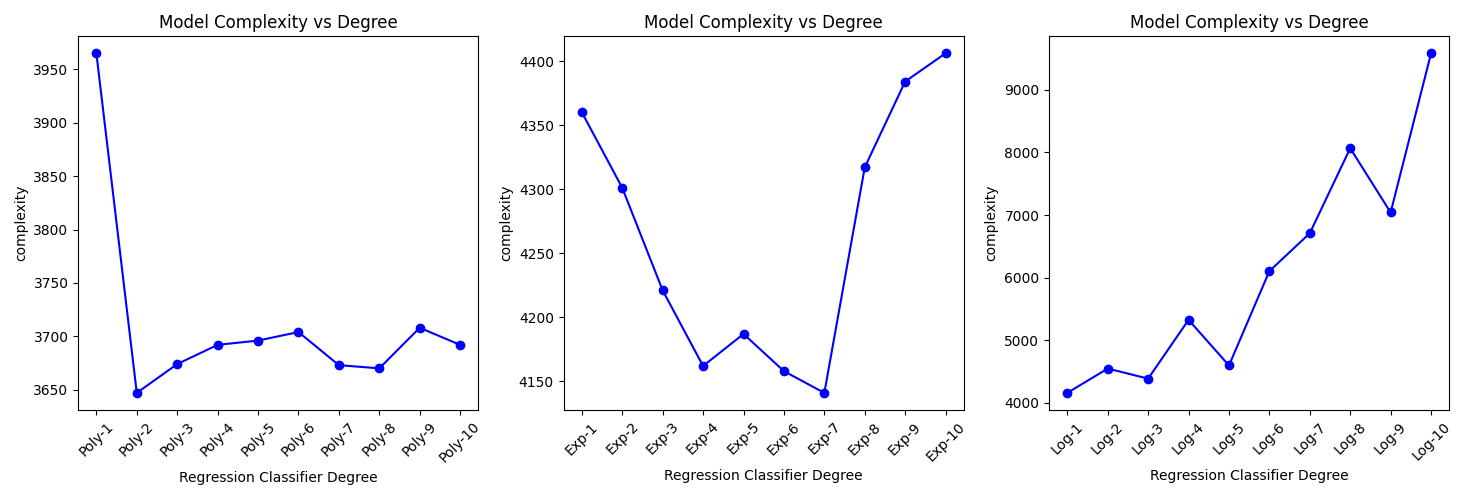
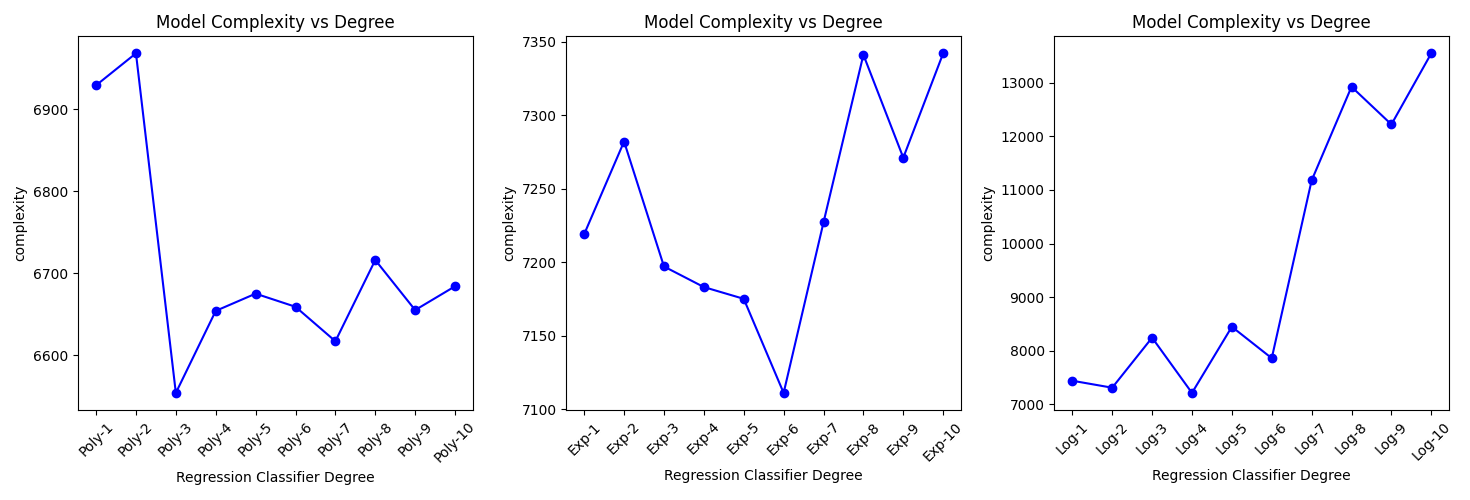
[DEV_MODEL]: Update order of datasets

diff --git a/model_tuning.py b/model_tuning.py
@@ -73,43 +73,43 @@ def generate_synthetic_data(d):
     if d == 1:
         np.random.seed(0)
         x = np.random.rand(1000, 1) * 10 - 5
-        noise = np.random.randn(1000, 1) * 10
-        y = 1 - 4*x + 1*x**2 + noise
-        return x, y
-    
-    if d == 2:
-        np.random.seed(0)
-        x = np.random.rand(1000, 1) * 10 - 5
         noise = np.random.randn(1000, 1) * 100
         y = 1 + 2*x + 3*x**2 - 4*x**3 + noise
         return x, y
-
-    if d == 3:
-        np.random.seed(0)
-        x = np.random.rand(1000, 1) * 10 - 5
-        noise = np.random.randn(1000, 1) * 100
-        y = 1 - 20*x + 0.3*x**2 + 0.4*x**3 + 1*x**4 + noise
-        return x, y
     
-    if d == 4:
+    if d == 2:
         np.random.seed(0)
         x = np.random.rand(1000, 1) - 0.5
         noise = np.random.randn(1000, 1)
         y = 1 - 1*np.exp(x) + 2*np.exp(x)**2 - 4*np.exp(x)**3 + noise
         return x, y
     
-    if d == 5:
-        np.random.seed(0)
-        x = np.random.rand(1000, 1)
-        noise = np.random.randn(1000, 1) * 10
-        y = 1 - 1*np.log(x) + 2*np.log(x)**2 + noise
-        return x, y
-
-    else:
+    if d == 3:
         np.random.seed(0)
         x = np.random.rand(1000, 1) - 0.5
         noise = np.random.randn(1000, 1) * 5
         y = 1 + 2*x + 3*np.exp(x)**2 - 10*np.exp(x)**3 + noise
+        return x, y
+
+    if d == 4:
+        np.random.seed(0)
+        x = np.random.rand(1000, 1) * 10 - 5
+        noise = np.random.randn(1000, 1) * 10
+        y = 1 - 4*x + 1*x**2 + noise
+        return x, y
+    
+    if d == 5:
+        np.random.seed(0)
+        x = np.random.rand(1000, 1) * 10 - 5
+        noise = np.random.randn(1000, 1) * 100
+        y = 1 - 20*x + 0.3*x**2 + 0.4*x**3 + 1*x**4 + noise
+        return x, y
+
+    if d == 6:
+        np.random.seed(0)
+        x = np.random.rand(1000, 1)
+        noise = np.random.randn(1000, 1) * 10
+        y = 1 - 1*np.log(x) + 2*np.log(x)**2 + noise
         return x, y
 
 
@@ -149,7 +149,7 @@ def plot_complexities(classifiers_groups, title, ylabel):
 
 
 def main():
-    d = 6
+    d = 1
     x, y = generate_synthetic_data(d)
     plot_data(x, y)
 
@@ -203,11 +203,11 @@ def main():
     plt.scatter(x, y, color='blue', label='Data points', s=10)
     #plt.scatter(x, parameters_poly[0][0] * np.ones(x.shape[0]), color=(0.56, 0.93, 0.56), s=5)
     #plt.scatter(x, parameters_poly[1][0] + parameters_poly[1][1] * x, color=(0.56, 0.93, 0.56), s=5)
-    plt.scatter(x, parameters_poly[2][0] + parameters_poly[2][1] * x + parameters_poly[2][2] * x**2, color=(0.56, 0.93, 0.56), s=5)
-    #plt.scatter(x, parameters_poly[3][0] + parameters_poly[3][1] * x + parameters_poly[3][2] * x**2 + parameters_poly[3][3] * x**3, color=(0.56, 0.93, 0.56), s=5)
+    #plt.scatter(x, parameters_poly[2][0] + parameters_poly[2][1] * x + parameters_poly[2][2] * x**2, color=(0.56, 0.93, 0.56), s=5)
+    plt.scatter(x, parameters_poly[3][0] + parameters_poly[3][1] * x + parameters_poly[3][2] * x**2 + parameters_poly[3][3] * x**3, color=(0.56, 0.93, 0.56), s=5)
     #plt.scatter(x, parameters_poly[4][0] + parameters_poly[4][1] * x + parameters_poly[4][2] * x**2 + parameters_poly[4][3] * x**3 + parameters_poly[4][4] * x**4, color=(0.56, 0.93, 0.56), s=5)
     #plt.scatter(x, parameters_exp[1][0] + parameters_exp[1][1] * np.exp(x), color=(0.56, 0.93, 0.56), s=5)
-    plt.scatter(x, parameters_exp[2][0] + parameters_exp[2][1] * np.exp(x) + parameters_exp[2][2] * np.exp(x)**2, color=(0.56, 0.93, 0.56), s=5)
+    #plt.scatter(x, parameters_exp[2][0] + parameters_exp[2][1] * np.exp(x) + parameters_exp[2][2] * np.exp(x)**2, color=(0.56, 0.93, 0.56), s=5)
     #plt.scatter(x, parameters_exp[3][0] + parameters_exp[3][1] * np.exp(x) + parameters_exp[3][2] * np.exp(x)**2 + parameters_exp[3][3] * np.exp(x)**3, color=(0.56, 0.93, 0.56), s=5)
     #plt.scatter(x, parameters_log[1][0] + parameters_log[1][1] * np.log(x), color=(0.56, 0.93, 0.56), s=5)
     #plt.scatter(x, parameters_log[2][0] + parameters_log[2][1] * np.log(x) + parameters_log[2][2] * np.log(x)**2, color=(0.56, 0.93, 0.56), s=5)
